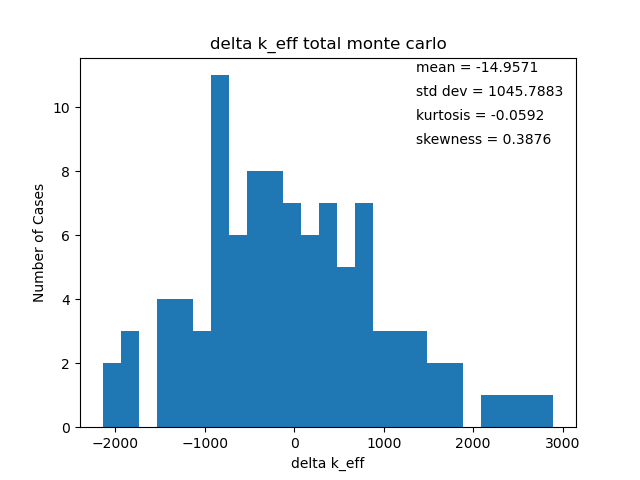
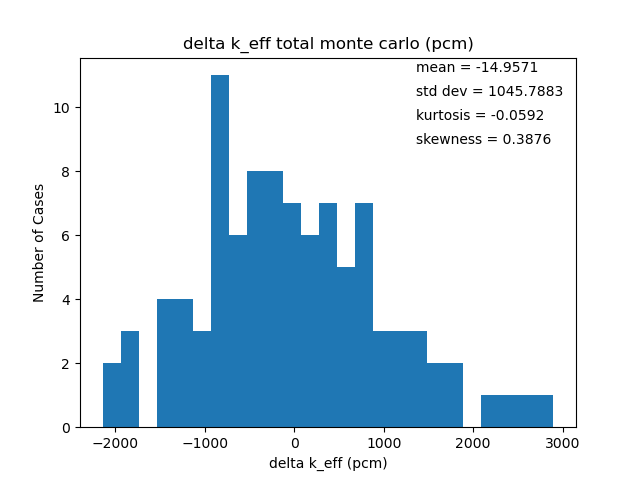
openmc plots

Changed region(s): [[0.2812, 0.0625, 0.75, 0.125], [0.4062, 0.9375, 0.5938, 1.0]]

diff --git a/Openmc_godiva/Openmc_delta_keff.py b/Openmc_godiva/Openmc_delta_keff.py
@@ -7,9 +7,9 @@ from scipy.stats import skew
 from scipy.stats import norm, kurtosis
 
 
-uncert = [8.873654661206411e-05, 8.912118534630502e-05, 8.812919397684031e-05, 0.00010061385716091277, 9.553089806145291e-05, 8.399155429332873e-05, 8.684108679201866e-05, 9.054345839374736e-05, 9.196848297951765e-05, 8.93492333610218e-05, 0.00010567013494728788, 0.00010079570805707158, 9.09745483658844e-05, 8.621806347253984e-05, 0.00010123397204278362, 8.76430273542242e-05, 0.00010489206699610704, 9.979410733437633e-05, 8.77297788176893e-05, 9.708138853362849e-05, 8.992443214207586e-05, 0.0001015320173149882, 9.396329667451037e-05, 8.81279187520762e-05, 8.827268529416947e-05, 9.723360116451453e-05, 0.00010014998365613344, 9.467936382508107e-05, 8.837552271393441e-05, 9.540853961611109e-05, 7.412013233075076e-05, 9.929403005089789e-05, 7.989974161409366e-05, 8.412642062454535e-05, 9.438603181600374e-05, 9.660251999669281e-05, 0.00010282212634712845, 8.36773519015779e-05, 9.116100630544002e-05, 8.713814088315426e-05, 8.599525176894744e-05, 9.205245263482871e-05, 0.00010317473202748286, 8.031355256150282e-05, 0.00010120785642028072, 8.517811492853315e-05, 9.04510257766702e-05, 9.359201882099538e-05, 8.369650945967384e-05, 8.855801253929903e-05, 8.717173117113153e-05, 0.00010292282237443719, 8.951331201630091e-05, 7.912473715346436e-05, 9.767464911844466e-05, 9.338580095555302e-05, 9.344172966850616e-05, 9.580656839640587e-05, 9.434861116204577e-05, 9.713103638643606e-05, 9.823142500070363e-05, 9.359201888509467e-05, 9.936064327124568e-05, 9.166614809522094e-05, 9.68535475907538e-05, 9.010018246066501e-05, 9.744335272214871e-05, 9.658050224817961e-05, 0.00010055652929250448, 9.442862089590915e-05, 9.520529384566878e-05, 9.456013090221239e-05, 8.865983822772862e-05, 9.820488613375853e-05, 9.729339269023144e-05, 8.746392643388955e-05, 9.145444272637628e-05, 9.547439185567412e-05, 8.67914758748296e-05, 9.896084561626199e-05, 9.278653322912057e-05, 8.395473156628737e-05, 8.521510461522924e-05, 9.187233570518578e-05, 8.339990307705161e-05, 7.97593526995541e-05, 8.194964047413107e-05, 7.986498875686193e-05, 8.51662842257949e-05, 9.157363509237248e-05, 7.930594832554187e-05, 9.524088907319418e-05, 8.462933472395428e-05, 9.500480871792863e-05, 9.157277588550193e-05, 9.185952717890893e-05, 8.073297022050576e-05, 9.055419449800128e-05, 9.031388418741611e-05]
+uncert1 = np.array([8.873654661206411e-05, 8.912118534630502e-05, 8.812919397684031e-05, 0.00010061385716091277, 9.553089806145291e-05, 8.399155429332873e-05, 8.684108679201866e-05, 9.054345839374736e-05, 9.196848297951765e-05, 8.93492333610218e-05, 0.00010567013494728788, 0.00010079570805707158, 9.09745483658844e-05, 8.621806347253984e-05, 0.00010123397204278362, 8.76430273542242e-05, 0.00010489206699610704, 9.979410733437633e-05, 8.77297788176893e-05, 9.708138853362849e-05, 8.992443214207586e-05, 0.0001015320173149882, 9.396329667451037e-05, 8.81279187520762e-05, 8.827268529416947e-05, 9.723360116451453e-05, 0.00010014998365613344, 9.467936382508107e-05, 8.837552271393441e-05, 9.540853961611109e-05, 7.412013233075076e-05, 9.929403005089789e-05, 7.989974161409366e-05, 8.412642062454535e-05, 9.438603181600374e-05, 9.660251999669281e-05, 0.00010282212634712845, 8.36773519015779e-05, 9.116100630544002e-05, 8.713814088315426e-05, 8.599525176894744e-05, 9.205245263482871e-05, 0.00010317473202748286, 8.031355256150282e-05, 0.00010120785642028072, 8.517811492853315e-05, 9.04510257766702e-05, 9.359201882099538e-05, 8.369650945967384e-05, 8.855801253929903e-05, 8.717173117113153e-05, 0.00010292282237443719, 8.951331201630091e-05, 7.912473715346436e-05, 9.767464911844466e-05, 9.338580095555302e-05, 9.344172966850616e-05, 9.580656839640587e-05, 9.434861116204577e-05, 9.713103638643606e-05, 9.823142500070363e-05, 9.359201888509467e-05, 9.936064327124568e-05, 9.166614809522094e-05, 9.68535475907538e-05, 9.010018246066501e-05, 9.744335272214871e-05, 9.658050224817961e-05, 0.00010055652929250448, 9.442862089590915e-05, 9.520529384566878e-05, 9.456013090221239e-05, 8.865983822772862e-05, 9.820488613375853e-05, 9.729339269023144e-05, 8.746392643388955e-05, 9.145444272637628e-05, 9.547439185567412e-05, 8.67914758748296e-05, 9.896084561626199e-05, 9.278653322912057e-05, 8.395473156628737e-05, 8.521510461522924e-05, 9.187233570518578e-05, 8.339990307705161e-05, 7.97593526995541e-05, 8.194964047413107e-05, 7.986498875686193e-05, 8.51662842257949e-05, 9.157363509237248e-05, 7.930594832554187e-05, 9.524088907319418e-05, 8.462933472395428e-05, 9.500480871792863e-05, 9.157277588550193e-05, 9.185952717890893e-05, 8.073297022050576e-05, 9.055419449800128e-05, 9.031388418741611e-05])
 delta_keff = np.array([-0.00863895703995865, -0.0004270116145389524, 0.003431714609999803, 0.02879377671802219, -0.002186310690175941, 0.013979067402185574, 0.02212612207525866, -0.0038656377309433942, 0.011341413276454215, 0.015238920062220052, -0.011833207847230964, -0.008782628803241543, -0.0021681635312295056, -0.012446423118119498, 0.013413934035424901, 0.018103204498623127, -0.000646448999057081, -0.018775382158269016, -0.0021098866757301993, -0.008335286332783132, 0.011854454825653837, -0.007167302045662072, -0.018418469829541317, 0.013881321832605042, 0.016497389381715966, 0.008745794581086708, -0.009086533201514535, -0.008872522388507997, -0.013593140762918288, 0.004229084295162222, 0.0020725274555504214, -0.019109442827658585, -0.00733525874158647, -0.0050091181612128555, 0.0020411947166341093, -0.008157426013394309, 0.0021236463622512636, 0.010365921379551724, -0.006190469214507277, -0.02130376854377536, 0.005321621888009109, 0.0009014204092313571, 0.008149454136595624, 0.0010740822797929983, -0.012651586264503911, -0.011876084417737132, 0.008664799126298695, 0.018393650163278874, -0.0025946282892677086, -0.004345925184281119, 0.0036869172955901197, 8.71938761474178e-05, 0.006366641196328571, 0.003920346577109823, 0.02389797456653464, -0.013780936682138534, 0.0021549596651904146, -0.009801345936126138, 0.010989027814383157, 0.004318732035509254, 0.008664799126216538, -0.005238419962627305, -0.005328746832333198, 0.00830801187150576, -0.006077107947195626, -0.006987615570382522, 0.010517493313497939, 0.008005356653339568, -0.020389519918438515, -0.013995088007218048, -0.014554433852571158, -0.006401838568114271, -0.0007130761035609723, -0.002366852774955852, 0.000731320708976746, -0.007826712605967567, -0.0023648175376145275, -0.0017419049903867334, -0.004722662818639645, -0.008315031299943598, 0.004172988659442822, 0.010466203562907728, -0.007287277689985938, -0.009577085402569963, -0.010543748205235626, -0.0036763903508010287, 0.006278627919358071, -0.003484045437787797, -0.0005430293587985746, 0.02518235950562908, -0.008909087923684056, 0.00444394753165267, -0.001984512440519226, 0.006711254695876745, 0.00786614883749448, -0.0009153138471604816, -0.003451600763828222, 0.004828008057249034])
-
+uncert=uncert1*10**5
 
 keff = [0.993483547695236, 0.9848445906552773, 0.993056536080697, 0.9969152623052357, 1.0222773244132581, 0.99129723700506, 1.0074626150974215, 1.0156096697704946, 0.9896179099642926, 1.0048249609716902, 1.008722467757456, 0.981650339848005, 0.9847009188919944, 0.9913153841640064, 0.9810371245771164, 1.0068974817306608, 1.011586752193859, 0.9928370986961789, 0.9747081655369669, 0.9913736610195057, 0.9851482613624528, 1.0053380025208898, 0.9863162456495739, 0.9750650778656946, 1.007364869527841, 1.009980937076952, 1.0022293422763227, 0.9843970144937214, 0.984611025306728, 0.9798904069323177, 0.9977126319903982, 0.9955560751507864, 0.9743741048675774, 0.9861482889536495, 0.9884744295340231, 0.9955247424118701, 0.9853261216818416, 0.9956071940574872, 1.0038494690747877, 0.9872930784807287, 0.9721797791514606, 0.9988051695832451, 0.9943849681044673, 1.0016330018318316, 0.994557629975029, 0.980831961430732, 0.9816074632774988, 1.0021483468215346, 1.0118771978585148, 0.9908889194059682, 0.9891376225109548, 0.9971704649908261, 0.9935707415713834, 0.9998501888915645, 0.9974038942723458, 1.0173815222617706, 0.9797026110130974, 0.9956385073604264, 0.9836822017591098, 1.004472575509619, 0.9978022797307452, 1.0021483468214525, 0.9882451277326086, 0.9881548008629027, 1.0017915595667417, 0.9874064397480403, 0.9864959321248534, 1.0040010410087339, 1.0014889043485755, 0.9730940277767974, 0.9794884596880179, 0.9789291138426648, 0.9870817091271217, 0.992770471591675, 0.9911166949202801, 0.9942148684042127, 0.9856568350892684, 0.9911187301576214, 0.9917416427048492, 0.9887608848765963, 0.9851685163952923, 0.9976565363546788, 1.0039497512581437, 0.98619627000525, 0.983906462292666, 0.9829397994900003, 0.9898071573444349, 0.999762175614594, 0.9899995022574481, 0.9929405183364374, 1.018665907200865, 0.9845744597715519, 0.9979274952268886, 0.9914990352547167, 1.0001948023911127, 1.0013496965327304, 0.9925682338480755, 0.9900319469314077, 0.998311555752485]
 
@@ -31,8 +31,8 @@ skewness2 = skew(uncert)
 plt.hist(delta_keff, bins=25, density=False)
 
 # Set the plot title and axis labels
-plt.title(f'delta k_eff total monte carlo')
-plt.xlabel('delta k_eff')
+plt.title(f'delta k_eff total monte carlo (pcm)')
+plt.xlabel('delta k_eff (pcm)')
 plt.ylabel('Number of Cases')
 plt.figtext(.65, .85, f"mean = {round(mean,4)}")
 plt.figtext(.65, .8, f"std dev = {round(std_dev,4)}")
@@ -43,8 +43,8 @@ plt.clf()
 
 plt.hist(uncert, bins=25, density=False)
 
-plt.title(f"OpenMC's statistical uncertainty")
-plt.xlabel('Statistical uncertainty')
+plt.title(f"OpenMC's statistical uncertainty (pcm)")
+plt.xlabel('Statistical uncertainty (pcm)')
 plt.ylabel('Number of Cases')
 plt.figtext(.65, .85, f"mean = {round(mean2,4)}")
 plt.figtext(.65, .8, f"std dev = {round(std_dev2,4)}")
